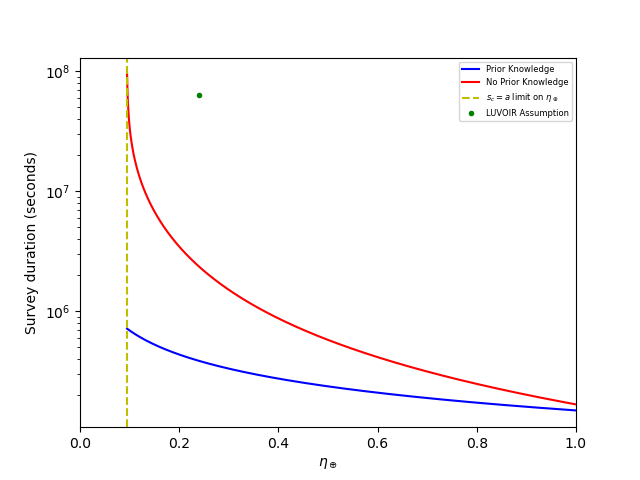
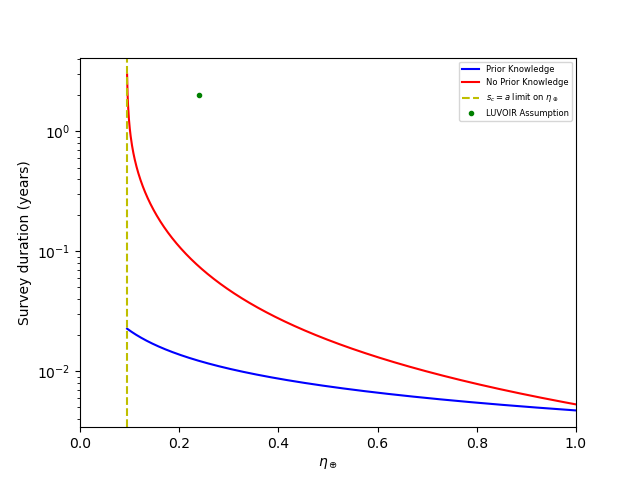
Added easy scale-switching, generated a ton of graphs.

diff --git a/dgraphs.py b/dgraphs.py
@@ -8,14 +8,14 @@ import os
 
 # First one uses script location, second uses cwd. Comment/uncomment to taste.
 mpl.rcParams["savefig.directory"] = os.chdir(os.path.dirname(__file__))
-# mpl.rcParams["savefig.directory"] = ""
+#mpl.rcParams["savefig.directory"] = ""
 
 # The following specifies that titles should be on/off for figures.
 TITLES=False
 
 def print_help():
     print("""
-Usage: python3 dgraphs.py [STUDY] [COMPARISON]
+Usage: python3 dgraphs.py <STUDY> <COMPARISON> [GRAPHTYPE]
 Generate a graph that compares two variables for a given mission concept.
 
   -h, --help     display this message
@@ -25,17 +25,24 @@ Generate a graph that compares two variables for a given mission concept.
                           0 -> N_oplus   vs d
                           1 -> eta_oplus vs d
                           2 -> d         vs N_oplus
-                          3 -> d         vs duration
+                          3 -> duration  vs d
                           4 -> eta_oplus vs N_oplus  (Not Implemented)
                           5 -> IWA       vs N_oplus
-                          6 -> SNR0      vs N_oplus
+                          6 -> N_oplus   vs SNR0
                           7 -> N_oplus   vs duration
                           8 -> eta_oplus vs duration
+  GRAPHTYPE      one of [linear, logy, logx, loglog]
 
 If an invalid value is supplied for STUDY, it will
 default to habex.
+
 If an invalid value is supplied for COMPARISON,
-the program will display this message and exit.""")
+the program will display this message and exit.
+
+If GRAPHTYPE is not supplied or an invalid value
+is supplied for GRAPHTYPE, the default will depend
+on COMPARISON.
+""")
 
 if '-h' in sys.argv or '--help' in sys.argv:
     print_help()
@@ -90,6 +97,21 @@ else:
     print_help()
     #exit(1)
 
+LINEAR, LOGY, LOGX, LOGLOG, UNSET = [False]*5
+if len(sys.argv) > 3:
+    if 'linear' == sys.argv[3]:
+        LINEAR=True
+    elif 'logy' == sys.argv[3]:
+        LOGY=True
+    elif 'logx' == sys.argv[3]:
+        LOGX=True
+    elif 'loglog' == sys.argv[3]:
+        LOGLOG=True
+    else:
+        UNSET=True
+        print_help()
+else:
+    UNSET=True
 #mp.dps=50
 #mp.prec=171
 
@@ -171,18 +193,34 @@ def d_photon_prior(Noplusa, la, avara, rhostara, etaeartha, snr0a, Ra, Ka, epsa,
 
 def d_iwa_all(Noplusa, la, avara, rhostara, etaeartha, snr0a, Ra, Ka, epsa, Ta, iwafaca, rvala):
     cuberoot = np.cbrt(d(m(3, Noplusa), m(4*pi, m(rhostara, etaeartha))))
+    if type(Ta)==np.ndarray:
+        return np.array([m(d(m(iwafaca, la), avara), cuberoot) for x in Ta])
     return m(d(m(iwafaca, la), avara), cuberoot)
-
 def intersection_prior(Noplusa, la, avara, rhostara, etaeartha, snr0a, Ra, Ka, epsa, Ta, iwafaca, rvala):
     return m(m(5/48, np.power(iwafaca, 2)), d(m(Ra, m(Ka, m(Ta, m(epsa, np.power(la, 2))))), m(rvala, np.power(m(snr0a, avara), 2))))
 
 def d_prior_noplus(Noplusarr, la, avara, rhostara, etaeartha, snr0a, Ra, Ka, epsa, Ta, iwafaca, rvala):
-    noplus_intersecta = intersection_prior([], la, avara, rhostara, etaeartha, snr0a, Ra, Ka, epsa, Ta, iwafaca, rvala)
-    intersect_ind = int(np.where(Noplusarr == noplus_intersecta)[0])
+    noplus_intersecta = np.array([intersection_prior([], la, avara, rhostara, etaeartha, snr0a, Ra, Ka, epsa, Ta, iwafaca, rvala)])
+    #print(Noplusarr.shape)
+    intersect_ind = int(np.where(np.isclose(Noplusarr,noplus_intersecta))[0])
     iwalim = d_iwa_all(Noplusarr[:intersect_ind], la, avara, rhostara, etaeartha, snr0a, Ra, Ka, epsa, Ta, iwafaca, rvala)
     iwalim2 = d_iwa_all(Noplusarr[intersect_ind:], la, avara, rhostara, etaeartha, snr0a, Ra, Ka, epsa, Ta, iwafaca, rvala)
     photonlim = d_photon_prior(Noplusarr[intersect_ind:], la, avara, rhostara, etaeartha, snr0a, Ra, Ka, epsa, Ta, iwafaca, rvala)
     photonlim2 = d_photon_prior(Noplusarr[:intersect_ind], la, avara, rhostara, etaeartha, snr0a, Ra, Ka, epsa, Ta, iwafaca, rvala)
+    return np.concatenate((iwalim, photonlim)), np.concatenate((photonlim2, iwalim2))
+
+def T_intersection_prior(Noplusa, la, avara, rhostara, etaeartha, snr0a, Ra, Ka, epsa, Ta, iwafaca, rvala):
+    return d(m(Noplusa,m(m(16/5, rvala), np.power(m(snr0a, avara), 2))), m(m(iwafaca, np.power(la, 2)), m(m(Ra, Ka), epsa)))
+
+def d_prior_T(Noplusa, la, avara, rhostara, etaeartha, snr0a, Ra, Ka, epsa, Tarr, iwafaca, rvala):
+    T_intersecta = T_intersection_prior(Noplusa, la, avara, rhostara, etaeartha, snr0a, Ra, Ka, epsa, [], iwafaca, rvala)
+    #print(Tarr.shape)
+    #print(T_intersecta.shape)
+    intersect_ind =  int(np.where(np.isclose(Tarr,T_intersecta))[0])
+    iwalim = d_iwa_all(Noplusa, la, avara, rhostara, etaeartha, snr0a, Ra, Ka, epsa, Tarr[:intersect_ind], iwafaca, rvala)
+    iwalim2 = d_iwa_all(Noplusa, la, avara, rhostara, etaeartha, snr0a, Ra, Ka, epsa, Tarr[intersect_ind:], iwafaca, rvala)
+    photonlim = d_photon_prior(Noplusa, la, avara, rhostara, etaeartha, snr0a, Ra, Ka, epsa, Tarr[intersect_ind:], iwafaca, rvala)
+    photonlim2 = d_photon_prior(Noplusa, la, avara, rhostara, etaeartha, snr0a, Ra, Ka, epsa, Tarr[:intersect_ind], iwafaca, rvala)
     return np.concatenate((iwalim, photonlim)), np.concatenate((photonlim2, iwalim2))
 
 def T_photon_noprior(Noplusa, la, avara, rhostara, etaeartha, snr0a, Ra, Ka, epsa, da, iwafaca, rvala):
@@ -246,19 +284,33 @@ if NOPLUSvD:
     dvals_np = d_photon_noprior(NoplusVals, l, avar, rhostar, etaearth, snr0, R, K, eps, T, iwafac, rval)
 
     ax=plt.figure()  # ; pltfname=HABEX*'HabEx' + LUVOIR*'LUVOIR'+'plt.pickle'
-    if True:
+    if LINEAR:
+        plt.plot(NoplusVals[1:], dvals_p[1:], color='b', label='Prior Knowledge')
+        plt.plot(NoplusVals[1:], dvals_pa[1:], color='b', linestyle='--')
+        plt.plot(NoplusVals[1:], dvals_np[1:], color='r', label='No Prior Knowledge')
+        plt.plot(Noplus, dvar, 'go', label=HABEX*'HabEx' + (LUVOIR or LUVOIRALT)*'LUVOIR'+' Properties', markersize=3)
+        plt.figtext(0.135, 0.56, 'IWA-Limited', fontsize=8);plt.figtext(0.54, 0.56, 'Photon-Limited', fontsize=8)
+    elif LOGY:
+        plt.semilogy(NoplusVals[1:], dvals_p[1:], color='b', label='Prior Knowledge')
+        plt.semilogy(NoplusVals[1:], dvals_pa[1:], color='b', linestyle='--')
+        plt.semilogy(NoplusVals[1:], dvals_np[1:], color='r', label='No Prior Knowledge')
+        plt.semilogy(Noplus, dvar, 'go', label=HABEX*'HabEx' + (LUVOIR or LUVOIRALT)*'LUVOIR'+' Properties', markersize=3)
+        plt.figtext(0.135, 0.8, 'IWA-Limited', fontsize=8);plt.figtext(0.54, 0.65, 'Photon-Limited', fontsize=8)
+    elif LOGX or UNSET:
         plt.semilogx(NoplusVals[1:], dvals_p[1:], color='b', label='Prior Knowledge')
         plt.semilogx(NoplusVals[1:], dvals_pa[1:], color='b', linestyle='--')
         plt.semilogx(NoplusVals[1:], dvals_np[1:], color='r', label='No Prior Knowledge')
         plt.semilogx(Noplus, dvar, 'go', label=HABEX*'HabEx' + (LUVOIR or LUVOIRALT)*'LUVOIR'+' Properties', markersize=3)
-    else:
+        plt.figtext(0.45, 0.23, 'IWA-Limited', fontsize=8);plt.figtext(0.74, 0.23, 'Photon-Limited', fontsize=8)
+    elif LOGLOG:
         plt.loglog(NoplusVals[1:], dvals_p[1:], color='b', label='Prior Knowledge')
         plt.loglog(NoplusVals[1:], dvals_pa[1:], color='b', linestyle='--')
         plt.loglog(NoplusVals[1:], dvals_np[1:], color='r', label='No Prior Knowledge')
         plt.loglog(Noplus, dvar, 'go', label=HABEX*'HabEx' + (LUVOIR or LUVOIRALT)*'LUVOIR'+' Properties', markersize=3)
+        plt.figtext(0.45, 0.23, 'IWA-Limited', fontsize=8);plt.figtext(0.74, 0.23, 'Photon-Limited', fontsize=8)
     # plt.axvline(x=Noplus, color='g', linestyle='--', label=HABEX*'HabEx' + LUVOIR*'LUVOIR'+' Expected Yield')
     plt.axvline(x=noplus_intersect, color='k', linestyle=':', label='IWA-Photon intersection (prior)')
-    plt.figtext(0.45, 0.23, 'IWA-Limited', fontsize=8);plt.figtext(0.74, 0.23, 'Photon-Limited', fontsize=8)
+    #plt.figtext(0.45, 0.23, 'IWA-Limited', fontsize=8);plt.figtext(0.74, 0.23, 'Photon-Limited', fontsize=8)
     # plt.axhline(y=dvar, color='c', linestyle='--', label=HABEX*'HabEx' + LUVOIR*'LUVOIR'+' Telescope Diameter')
     plt.ylabel('Minimum Telescope Diameter (m)'); plt.xlabel('EEC/HEC Yield')
     plt.title(TITLES*(HABEX*'HabEx' + (LUVOIR or LUVOIRALT)*'LUVOIR' + 
@@ -279,15 +331,19 @@ if ETAvD:
         titlestr=' IWA-limited '+titlestr
     dvals_np = d_photon_noprior(Noplus, l, avar, rhostar, etavals, snr0, R, K, eps, T, iwafac, rval)
     ax = plt.figure()
-    if False:
+    if LINEAR:
         plt.plot(etavals, dvals_p, color='b', label='Prior Knowledge')
         plt.plot(etavals, dvals_np, color='r', label='No Prior Knowledge')
         plt.plot(etaearth, dvar, 'go', label=HABEX*'HabEx' + (LUVOIR or LUVOIRALT)*'LUVOIR'+' Assumption', markersize=3)
-    elif False:
+    elif LOGY:
         plt.semilogy(etavals, dvals_p, color='b', label='Prior Knowledge')
         plt.semilogy(etavals, dvals_np, color='r', label='No Prior Knowledge')
         plt.semilogy(etaearth, dvar, 'go', label=HABEX*'HabEx' + (LUVOIR or LUVOIRALT)*'LUVOIR'+' Assumption', markersize=3)
-    else:
+    elif LOGX:
+        plt.semilogx(etavals, dvals_p, color='b', label='Prior Knowledge')
+        plt.semilogx(etavals, dvals_np, color='r', label='No Prior Knowledge')
+        plt.semilogx(etaearth, dvar, 'go', label=HABEX*'HabEx' + (LUVOIR or LUVOIRALT)*'LUVOIR'+' Assumption', markersize=3)
+    elif LOGLOG or UNSET:
         plt.loglog(etavals, dvals_p, color='b', label='Prior Knowledge')
         plt.loglog(etavals, dvals_np, color='r', label='No Prior Knowledge')
         plt.loglog(etaearth, dvar, 'go', label=HABEX*'HabEx' + (LUVOIR or LUVOIRALT)*'LUVOIR'+' Assumption', markersize=3)
@@ -306,30 +362,69 @@ if DvNOPLUS:
     dvals_p, dvals_pa = d_prior_noplus(noplusvals, l, avar, rhostar, etaearth, snr0, R, K, eps, T, iwafac, rval)
     dvals_np = d_photon_noprior(noplusvals, l, avar, rhostar, etaearth, snr0, R, K, eps, T, iwafac, rval)
     ax = plt.figure()
-    plt.plot(dvals_p, noplusvals, color='b', label='Prior Knowledge')
-    plt.plot(dvals_pa, noplusvals, color='b', linestyle='--')
-    plt.plot(dvals_np, noplusvals, color='r', label='No Prior Knowledge')
-    plt.plot(dvar, Noplus, 'go', label=HABEX*'HabEx' + (LUVOIR or LUVOIRALT)*'LUVOIR'+' Assumption', markersize=3)
+    if LINEAR or UNSET:
+        plt.plot(dvals_p, noplusvals, color='b', label='Prior Knowledge')
+        plt.plot(dvals_pa, noplusvals, color='b', linestyle='--')
+        plt.plot(dvals_np, noplusvals, color='r', label='No Prior Knowledge')
+        plt.plot(dvar, Noplus, 'go', label=HABEX*'HabEx' + (LUVOIR or LUVOIRALT)*'LUVOIR'+' Assumption', markersize=3)
+    elif LOGY:
+        plt.semilogy(dvals_p, noplusvals, color='b', label='Prior Knowledge')
+        plt.semilogy(dvals_pa, noplusvals, color='b', linestyle='--')
+        plt.semilogy(dvals_np, noplusvals, color='r', label='No Prior Knowledge')
+        plt.semilogy(dvar, Noplus, 'go', label=HABEX*'HabEx' + (LUVOIR or LUVOIRALT)*'LUVOIR'+' Assumption', markersize=3)
+    elif LOGX:
+        plt.semilogx(dvals_p, noplusvals, color='b', label='Prior Knowledge')
+        plt.semilogx(dvals_pa, noplusvals, color='b', linestyle='--')
+        plt.semilogx(dvals_np, noplusvals, color='r', label='No Prior Knowledge')
+        plt.semilogx(dvar, Noplus, 'go', label=HABEX*'HabEx' + (LUVOIR or LUVOIRALT)*'LUVOIR'+' Assumption', markersize=3)
+    elif LOGLOG:
+        plt.loglog(dvals_p, noplusvals, color='b', label='Prior Knowledge')
+        plt.loglog(dvals_pa, noplusvals, color='b', linestyle='--')
+        plt.loglog(dvals_np, noplusvals, color='r', label='No Prior Knowledge')
+        plt.loglog(dvar, Noplus, 'go', label=HABEX*'HabEx' + (LUVOIR or LUVOIRALT)*'LUVOIR'+' Assumption', markersize=3)
+
     plt.xlabel('Telescope Diameter (m)'); plt.ylabel('Exo-Earth Yield')
     plt.title(TITLES*(HABEX*'HabEx' + (LUVOIR or LUVOIRALT)*'LUVOIR' + titlestr))
     # currlim=plt.ylim(); plt.ylim([currlim[0], 25])
     plt.legend(prop={'size':6}); plt.show()
 
 if DvTIME:
-    timevals = list(np.linspace(0.1*T, 10*T, 1000))
+    tintersect = T_intersection_prior(Noplus, l, avar, rhostar, etaearth, snr0, R, K, eps, [], iwafac, rval)
+    timevals = list(np.linspace(0.1*tintersect, 10*T, 10000))
+    tval2 = np.linspace(1, 2*tintersect, 1000)
     timevals.append(T)
+    timevals.append(tintersect)
     timevals.sort()
     timevals = np.array(timevals)
+    timevals = np.concatenate([timevals, tval2])
+    timevals = np.sort(timevals)
+    #print(timevals.shape)
     timevalsy = d(timevals, 3600*24*365)
-    titlestr = ' Survey Duration vs. Telescope Diameter, for $\eta_\oplus='+str(float(etaearth))+'$.'
-    dvals_p, dvals_pa = d_prior_noplus(Noplus, l, avar, rhostar, etaearth, snr0, R, K, eps, timevals, iwafac, rval)
+    titlestr = ' Telescope Diameter vs. Survey Duration, for $\eta_\oplus='+str(float(etaearth))+'$.'
+    dvals_p, dvals_pa = d_prior_T(Noplus, l, avar, rhostar, etaearth, snr0, R, K, eps, timevals, iwafac, rval)
     dvals_np = d_photon_noprior(Noplus, l, avar, rhostar, etaearth, snr0, R, K, eps, timevals, iwafac, rval)
     ax = plt.figure()
-    plt.plot(dvals_p, timevals, color='b', label='Prior Knowledge')
-    plt.plot(dvals_pa, timevals, color='b', linestyle='--')
-    plt.plot(dvals_np, timevals, color='r', label='No Prior Knowledge')
-    plt.plot(dvar, T, 'go', label=HABEX*'HabEx' + (LUVOIR or LUVOIRALT)*'LUVOIR'+' Assumption', markersize=3)
-    plt.xlabel('Telescope Diameter (m)'); plt.ylabel('Survey Duration (seconds)')
+    if LINEAR or UNSET:
+        plt.plot(timevalsy, dvals_pa, color='b', label='Prior Knowledge')
+        plt.plot(timevalsy, dvals_p, color='b', linestyle='--')
+        plt.plot(timevalsy, dvals_np, color='r', label='No Prior Knowledge')
+        plt.plot(T/(3600*24*365), dvar, 'go', label=HABEX*'HabEx' + (LUVOIR or LUVOIRALT)*'LUVOIR'+' Assumption', markersize=3)
+    elif LOGY:
+        plt.semilogy(timevalsy, dvals_pa, color='b', label='Prior Knowledge')
+        plt.semilogy(timevalsy, dvals_p, color='b', linestyle='--')
+        plt.semilogy(timevalsy, dvals_np, color='r', label='No Prior Knowledge')
+        plt.semilogy(T/(3600*24*365), dvar, 'go', label=HABEX*'HabEx' + (LUVOIR or LUVOIRALT)*'LUVOIR'+' Assumption', markersize=3)
+    elif LOGX:
+        plt.semilogx(timevalsy, dvals_pa, color='b', label='Prior Knowledge')
+        plt.semilogx(timevalsy, dvals_p, color='b', linestyle='--')
+        plt.semilogx(timevalsy, dvals_np, color='r', label='No Prior Knowledge')
+        plt.semilogx(T/(3600*24*365), dvar, 'go', label=HABEX*'HabEx' + (LUVOIR or LUVOIRALT)*'LUVOIR'+' Assumption', markersize=3)
+    elif LOGLOG:
+        plt.loglog(timevalsy, dvals_pa, color='b', label='Prior Knowledge')
+        plt.loglog(timevalsy, dvals_p, color='b', linestyle='--')
+        plt.loglog(timevalsy, dvals_np, color='r', label='No Prior Knowledge')
+        plt.loglog(T/(3600*24*365), dvar, 'go', label=HABEX*'HabEx' + (LUVOIR or LUVOIRALT)*'LUVOIR'+' Assumption', markersize=3)
+    plt.ylabel('Telescope Diameter (m)'); plt.xlabel('Survey Duration (years)')
     plt.title(TITLES*(HABEX*'HabEx' + (LUVOIR or LUVOIRALT)*'LUVOIR' + titlestr))
     # currlim=plt.ylim(); plt.ylim([currlim[0], 25])
     plt.legend(prop={'size':6}); plt.show()
@@ -345,10 +440,26 @@ if IWAvNOPLUS:
     dvals_np = d_photon_noprior(noplusvals, l, avar, rhostar, etaearth, snr0, R, K, eps, T, iwafac, rval)
     ax = plt.figure()
     dvals_p = d(m(3,l),dvals_p);dvals_pa = d(m(3,l),dvals_pa);dvals_np = d(m(3,l),dvals_np);dvar = d(m(3,l),dvar);
-    plt.plot(dvals_p, noplusvals, color='b', label='Prior Knowledge')
-    plt.plot(dvals_pa, noplusvals, color='b', linestyle='--')
-    plt.plot(dvals_np, noplusvals, color='r', label='No Prior Knowledge')
-    plt.plot(dvar, Noplus, 'go', label=HABEX*'HabEx' + (LUVOIR or LUVOIRALT)*'LUVOIR'+' Assumption', markersize=3)
+    if LINEAR or UNSET:
+        plt.plot(dvals_p, noplusvals, color='b', label='Prior Knowledge')
+        plt.plot(dvals_pa, noplusvals, color='b', linestyle='--')
+        plt.plot(dvals_np, noplusvals, color='r', label='No Prior Knowledge')
+        plt.plot(dvar, Noplus, 'go', label=HABEX*'HabEx' + (LUVOIR or LUVOIRALT)*'LUVOIR'+' Assumption', markersize=3)
+    elif LOGY:
+        plt.semilogy(dvals_p, noplusvals, color='b', label='Prior Knowledge')
+        plt.semilogy(dvals_pa, noplusvals, color='b', linestyle='--')
+        plt.semilogy(dvals_np, noplusvals, color='r', label='No Prior Knowledge')
+        plt.semilogy(dvar, Noplus, 'go', label=HABEX*'HabEx' + (LUVOIR or LUVOIRALT)*'LUVOIR'+' Assumption', markersize=3)
+    elif LOGX:
+        plt.semilogx(dvals_p, noplusvals, color='b', label='Prior Knowledge')
+        plt.semilogx(dvals_pa, noplusvals, color='b', linestyle='--')
+        plt.semilogx(dvals_np, noplusvals, color='r', label='No Prior Knowledge')
+        plt.semilogx(dvar, Noplus, 'go', label=HABEX*'HabEx' + (LUVOIR or LUVOIRALT)*'LUVOIR'+' Assumption', markersize=3)
+    elif LOGLOG:
+        plt.loglog(dvals_p, noplusvals, color='b', label='Prior Knowledge')
+        plt.loglog(dvals_pa, noplusvals, color='b', linestyle='--')
+        plt.loglog(dvals_np, noplusvals, color='r', label='No Prior Knowledge')
+        plt.loglog(dvar, Noplus, 'go', label=HABEX*'HabEx' + (LUVOIR or LUVOIRALT)*'LUVOIR'+' Assumption', markersize=3)
     plt.xlabel('IWA (rad)'); plt.ylabel('Exo-Earth Yield')
     plt.title(TITLES*(HABEX*'HabEx' + (LUVOIR or LUVOIRALT)*'LUVOIR' + titlestr))
     # currlim=plt.ylim(); plt.ylim([currlim[0], 25])
@@ -377,11 +488,27 @@ if NOPLUSvT:
     #                             np.array(range(int(noplus_intersect+1), int(8*noplus_intersect)))))
     #tvals_p = np.concatenate((tvals_p_pho,tvals_p_iwa))
     ax = plt.figure()
-    plt.loglog(noplusvals,tvals_p, color='b', label='Prior Knowledge')
-    plt.loglog(noplusvals, tvals_np, color='r', label='No Prior Knowledge')
-    plt.axvline(x=noplus_limit, color='y', linestyle='--',label='$s_c=a$ limit on $N_\oplus$')
-    plt.plot(Noplus,T, 'go', label=HABEX*'HabEx' + (LUVOIR or LUVOIRALT)*'LUVOIR'+' Assumption', markersize=3)
-    plt.ylabel('Survey duration (seconds)'); plt.xlabel('Exo-Earth Yield')
+    if LINEAR:
+        plt.plot(noplusvals, d(tvals_p,3600*24*365), color='b', label='Prior Knowledge')
+        plt.plot(noplusvals, d(tvals_np,3600*24*365), color='r', label='No Prior Knowledge')
+        plt.axvline(x=noplus_limit, color='y', linestyle='--',label='$s_c=a$ limit on $N_\oplus$')
+        plt.plot(Noplus,T/(3600*24*365), 'go', label=HABEX*'HabEx' + (LUVOIR or LUVOIRALT)*'LUVOIR'+' Assumption', markersize=3)
+    elif LOGY:
+        plt.semilogy(noplusvals, d(tvals_p,3600*24*365), color='b', label='Prior Knowledge')
+        plt.semilogy(noplusvals, d(tvals_np,3600*24*365), color='r', label='No Prior Knowledge')
+        plt.axvline(x=noplus_limit, color='y', linestyle='--',label='$s_c=a$ limit on $N_\oplus$')
+        plt.semilogy(Noplus,T/(3600*24*365), 'go', label=HABEX*'HabEx' + (LUVOIR or LUVOIRALT)*'LUVOIR'+' Assumption', markersize=3)
+    elif LOGX:
+        plt.semilogx(noplusvals, d(tvals_p,3600*24*365), color='b', label='Prior Knowledge')
+        plt.semilogx(noplusvals, d(tvals_np,3600*24*365), color='r', label='No Prior Knowledge')
+        plt.axvline(x=noplus_limit, color='y', linestyle='--',label='$s_c=a$ limit on $N_\oplus$')
+        plt.semilogx(Noplus,T/(3600*24*365), 'go', label=HABEX*'HabEx' + (LUVOIR or LUVOIRALT)*'LUVOIR'+' Assumption', markersize=3)
+    elif LOGLOG or UNSET:
+        plt.loglog(noplusvals, d(tvals_p,3600*24*365), color='b', label='Prior Knowledge')
+        plt.loglog(noplusvals, d(tvals_np,3600*24*365), color='r', label='No Prior Knowledge')
+        plt.axvline(x=noplus_limit, color='y', linestyle='--',label='$s_c=a$ limit on $N_\oplus$')
+        plt.loglog(Noplus,T/(3600*24*365), 'go', label=HABEX*'HabEx' + (LUVOIR or LUVOIRALT)*'LUVOIR'+' Assumption', markersize=3)
+    plt.ylabel('Survey duration (years)'); plt.xlabel('Exo-Earth Yield')
     plt.title(TITLES*(HABEX*'HabEx' + (LUVOIR or LUVOIRALT)*'LUVOIR' + titlestr))
     plt.legend(prop={'size':6}); plt.show()
 
@@ -393,11 +520,21 @@ if ETAvT:
     tvals_np = T_photon_noprior(Noplus, l, avar, rhostar, etavals, snr0, R, K, eps, dvar, iwafac, rval)
     ax = plt.figure()
     plt.xlim([0,1])
-    plt.semilogy(etavals,tvals_p, color='b', label='Prior Knowledge')
-    plt.semilogy(etavals, tvals_np, color='r', label='No Prior Knowledge')
+    if LINEAR:
+        plt.plot(etavals,d(tvals_p,3600*24*365), color='b', label='Prior Knowledge')
+        plt.plot(etavals, d(tvals_np,3600*24*365), color='r', label='No Prior Knowledge')
+    elif LOGY or UNSET:
+        plt.semilogy(etavals,d(tvals_p,3600*24*365), color='b', label='Prior Knowledge')
+        plt.semilogy(etavals, d(tvals_np,3600*24*365), color='r', label='No Prior Knowledge')
+    elif LOGX:
+        plt.semilogx(etavals,d(tvals_p,3600*24*365), color='b', label='Prior Knowledge')
+        plt.semilogx(etavals, d(tvals_np,3600*24*365), color='r', label='No Prior Knowledge')
+    elif LOGLOG:
+        plt.loglog(etavals,d(tvals_p,3600*24*365), color='b', label='Prior Knowledge')
+        plt.loglog(etavals, d(tvals_np,3600*24*365), color='r', label='No Prior Knowledge')
     plt.axvline(x=minetaval, color='y', linestyle='--',label='$s_c=a$ limit on $\eta_\oplus$')
-    plt.plot(etaearth,T, 'go', label=HABEX*'HabEx' + (LUVOIR or LUVOIRALT)*'LUVOIR'+' Assumption', markersize=3)
-    plt.ylabel('Survey duration (seconds)'); plt.xlabel('$\eta_\oplus$')
+    plt.plot(etaearth,T/(3600*24*365), 'go', label=HABEX*'HabEx' + (LUVOIR or LUVOIRALT)*'LUVOIR'+' Assumption', markersize=3)
+    plt.ylabel('Survey duration (years)'); plt.xlabel('$\eta_\oplus$')
     plt.title(TITLES*(HABEX*'HabEx' + (LUVOIR or LUVOIRALT)*'LUVOIR' + titlestr))
     plt.legend(prop={'size':6}); plt.show()
 
@@ -411,8 +548,18 @@ if SNR0vNOPLUS:
     snrvals_p = SNR_photon_prior(noplusvals, l, avar, rhostar, etaearth, dvar, R, K, eps, T, iwafac, rval)
     snrvals_np = SNR_photon_noprior(noplusvals, l, avar, rhostar, etaearth, dvar, R, K, eps, T, iwafac, rval)
     ax = plt.figure()
-    plt.semilogy(noplusvals, snrvals_p, color='b', label='Prior Knowledge')
-    plt.semilogy(noplusvals, snrvals_np, color='r', label='No Prior Knowledge')
+    if LINEAR:
+        plt.plot(noplusvals, snrvals_p, color='b', label='Prior Knowledge')
+        plt.plot(noplusvals, snrvals_np, color='r', label='No Prior Knowledge')
+    elif LOGY or UNSET:
+        plt.semilogy(noplusvals, snrvals_p, color='b', label='Prior Knowledge')
+        plt.semilogy(noplusvals, snrvals_np, color='r', label='No Prior Knowledge')
+    elif LOGX:
+        plt.semilogx(noplusvals, snrvals_p, color='b', label='Prior Knowledge')
+        plt.semilogx(noplusvals, snrvals_np, color='r', label='No Prior Knowledge')
+    elif LOGLOG:
+        plt.loglog(noplusvals, snrvals_p, color='b', label='Prior Knowledge')
+        plt.loglog(noplusvals, snrvals_np, color='r', label='No Prior Knowledge')
     plt.plot(Noplus,snr0, 'go', label=HABEX*'HabEx' + (LUVOIR or LUVOIRALT)*'LUVOIR'+' Assumption', markersize=3)
     plt.ylabel('$SNR_0$'); plt.xlabel('Exo-Earth Yield')
     plt.title(TITLES*(HABEX*'HabEx' + (LUVOIR or LUVOIRALT)*'LUVOIR' + titlestr))
